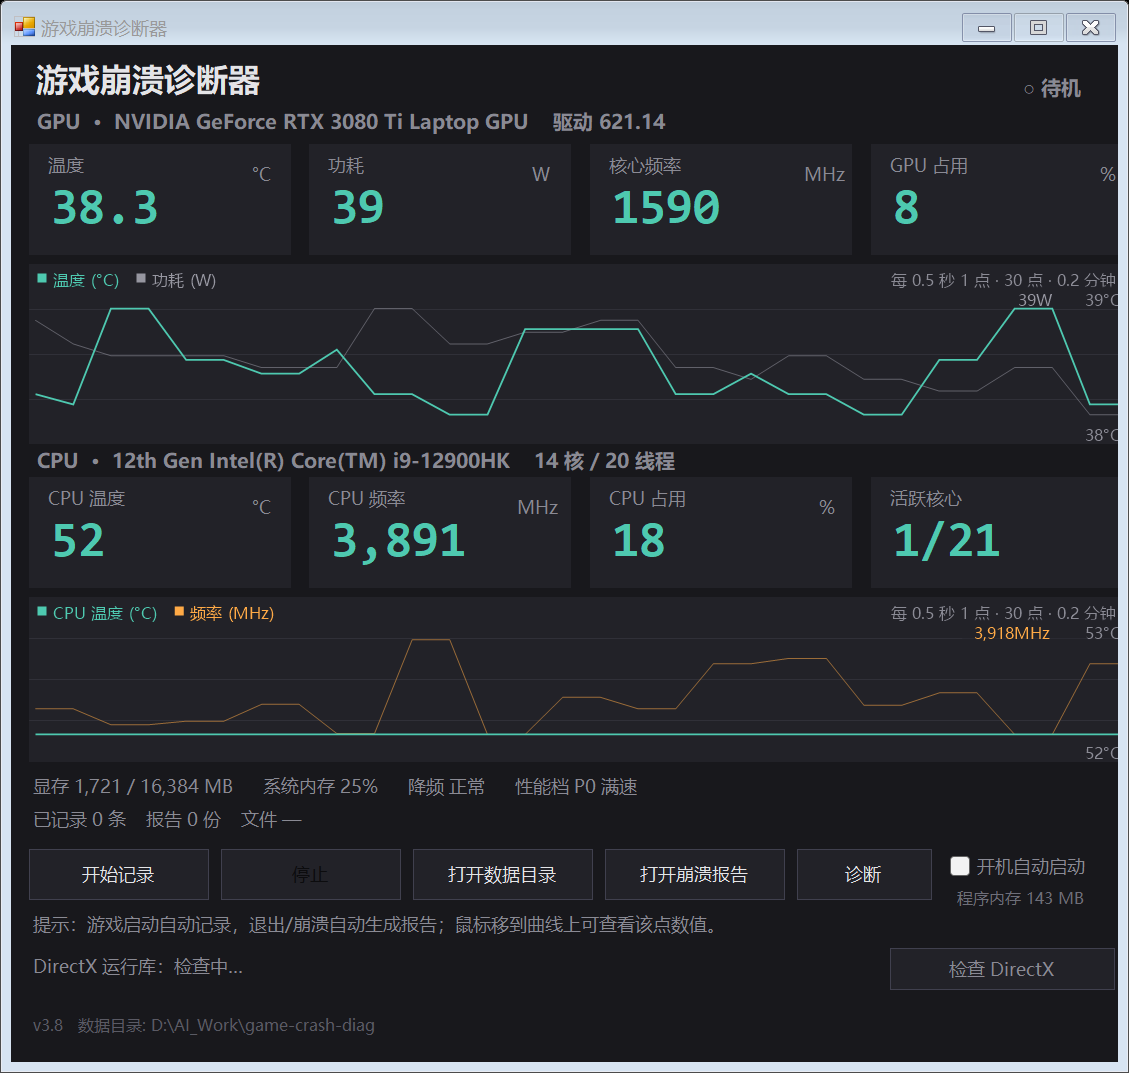
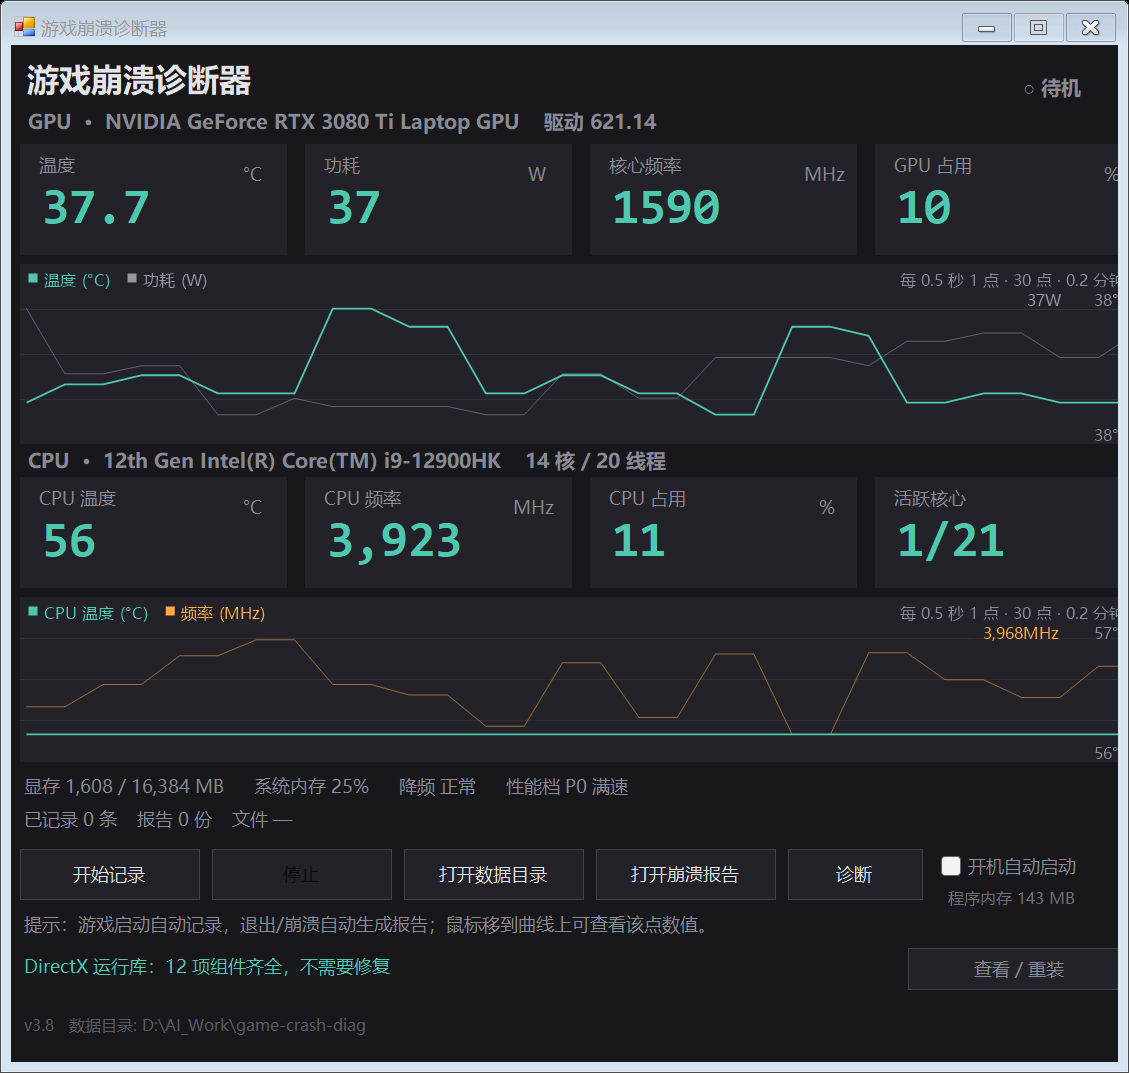
feat: v3.9 - 本地错误代码库与自动解读
- 新增 data\error-codes.txt（25 条：DXGI / Windows 异常 / 驱动硬件事件）
- 新增 Get-CrashEvidence：从事件日志、崩溃报告提取错误码
- 诊断报告新增【错误代码解读】段，逐条给出含义/原因/建议
- 左右边距改为按 ClientSize 动态计算，修复不等宽与右侧裁切
- 安装器与构建脚本同步分发 data 目录

diff --git a/README.md b/README.md
@@ -270,6 +270,31 @@ logs\
 3. 修完自动复查，告诉你还差什么
 
 两者都需要管理员权限（会弹 UAC）。不动系统文件以外的东西。
+
+### 错误代码库与解读
+
+诊断报告里有【错误代码解读】一段，会自动从事件日志和崩溃报告里捞出错误码，
+再到本地代码库 `data\error-codes.txt` 里查解释：
+
+```
+【nvlddmkm-13】NVIDIA 驱动：图形处理器全局异常
+    含义：GPU 内部计算单元报错（多次 Warp 错误）
+    常见原因：核心频率不稳、显存过热、硬件老化
+    建议：关超频；降核心频率/功耗墙；改善散热
+```
+
+**内置 25 条常见代码**，覆盖三类：
+
+| 类型 | 例子 |
+|---|---|
+| DXGI / DirectX | `0x887A0006` DEVICE_HUNG、`0x887A0005` DEVICE_REMOVED、`0x887A0020` DRIVER_INTERNAL_ERROR |
+| Windows 异常 / 蓝屏 | `0xC0000005` 访问违例、`0x116` VIDEO_TDR_FAILURE、`0x124` WHEA、`0x101` CLOCK_WATCHDOG |
+| 驱动与硬件事件 | nvlddmkm 13/14/153/4101、LiveKernelEvent 141/117、Kernel-Power 41 |
+
+**扩充很简单**：往 `data\error-codes.txt` 追加一行 `代码|名称|含义|原因|建议` 即可，
+不用改代码、不用重打包，下次诊断立刻生效。
+
+遇到库里没有的代码，报告会列出来并提示补进去。
 ## 显卡兼容性
 
 | 显卡 | 支持程度 |
